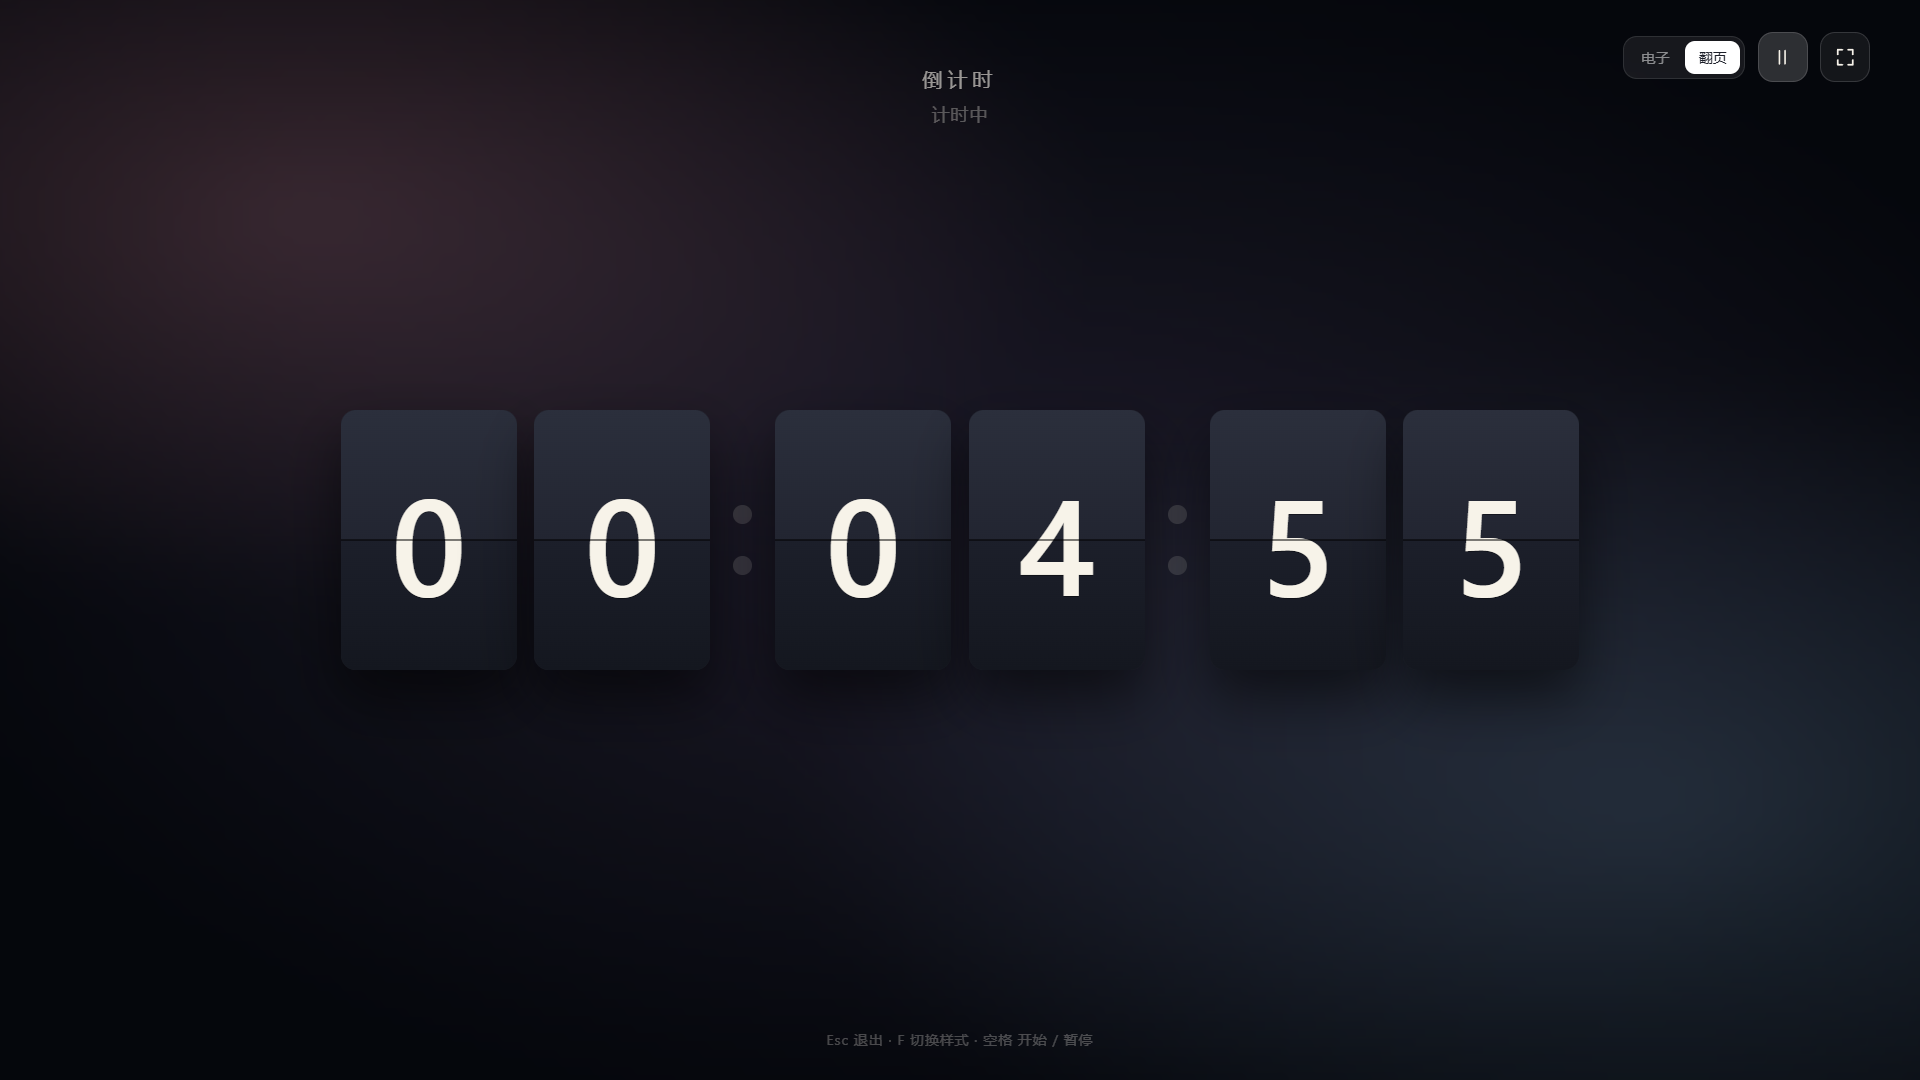
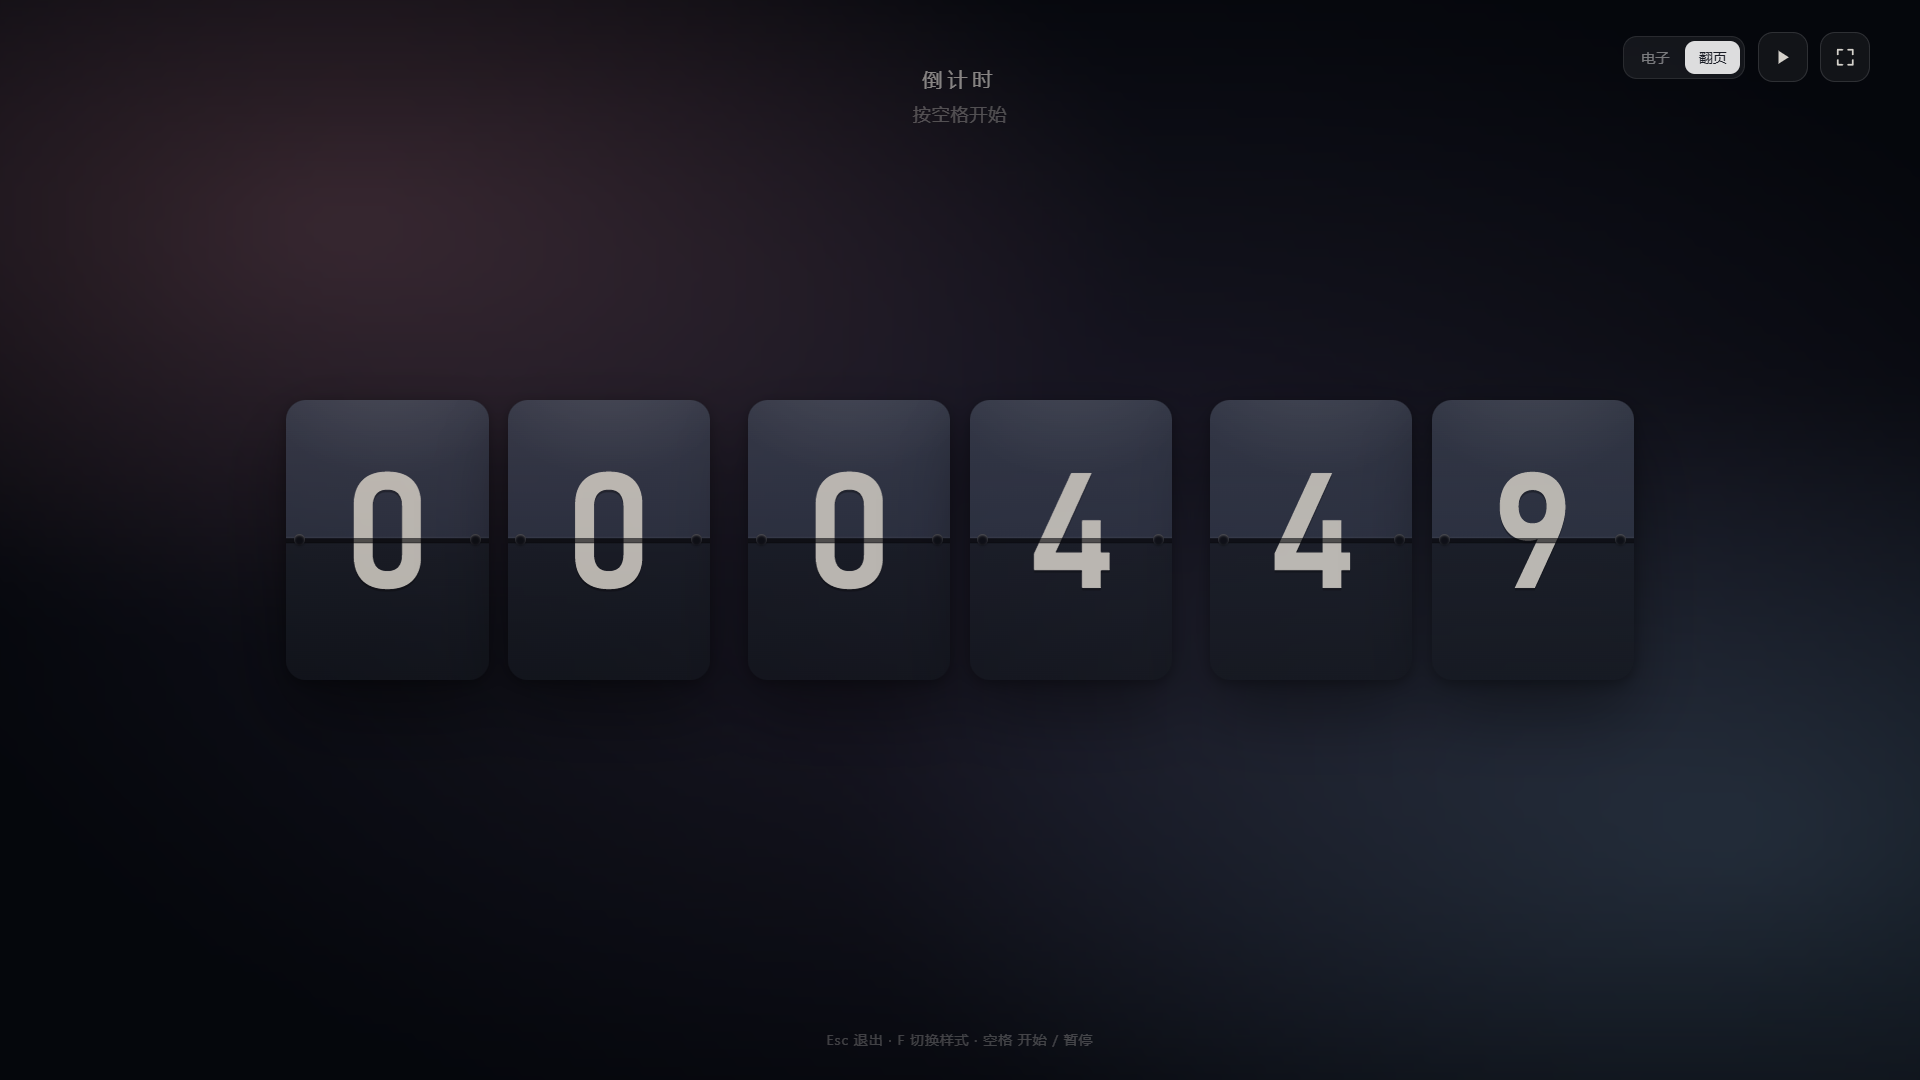
style: 翻页时钟改为日历翻页样式，补充快速开发脚本

Changed region(s): [[0.125, 0.3667, 0.875, 0.55], [0.875, 0.0306, 0.9688, 0.0917], [0.4688, 0.0917, 0.5312, 0.1222]]

diff --git a/src/styles.css b/src/styles.css
@@ -1079,133 +1079,165 @@ body.fs {
   box-shadow: none;
 }
 
-/* ---------- 翻页时钟 ---------- */
+/* ---------- 翻页时钟（日历牌） ---------- */
 .clock-flip {
   display: flex;
   align-items: center;
-  gap: clamp(6px, 0.9vw, 16px);
+  gap: clamp(8px, 1vw, 18px);
+  perspective: 1600px;
 }
 
 .flip-card {
   position: relative;
-  height: clamp(110px, 24vh, 270px);
-  aspect-ratio: 0.68;
-  perspective: 900px;
-  border-radius: 12px;
-  background: #10131b;
-  box-shadow:
-    0 22px 45px rgba(0, 0, 0, 0.55),
-    inset 0 0 0 1px rgba(255, 255, 255, 0.05);
-  font-size: clamp(58px, 12.5vh, 150px);
-  font-family: "Segoe UI Variable Display", "Segoe UI", "Bahnschrift", sans-serif;
+  perspective: 2200px;
+  height: clamp(120px, 26vh, 285px);
+  aspect-ratio: 0.72;
+  border-radius: 16px;
+  background: #0c0e14;
+  font-size: clamp(64px, 15vh, 170px);
+  font-family: "Bahnschrift", "Segoe UI Variable Display", "Segoe UI", sans-serif;
   font-weight: 600;
+  color: #f7f2e6;
+  transform-style: preserve-3d;
+  box-shadow:
+    0 28px 55px rgba(0, 0, 0, 0.55),
+    0 3px 10px rgba(0, 0, 0, 0.45),
+    inset 0 1px 0 rgba(255, 255, 255, 0.06);
 }
 
-.fc-half,
-.fc-flip {
+.fc-layer {
   position: absolute;
-  left: 0;
-  right: 0;
-  height: 50%;
-  overflow: hidden;
-  backface-visibility: hidden;
-}
-
-.fc-top,
-.fc-flip-top {
-  top: 0;
-  border-radius: 12px 12px 0 0;
-  background: linear-gradient(#2b2f3c, #222531);
-}
-
-.fc-bottom,
-.fc-flip-bottom {
-  bottom: 0;
-  border-radius: 0 0 12px 12px;
-  background: linear-gradient(#1c1f2a, #14171f);
-}
-
-.fc-glyph {
-  position: absolute;
-  left: 0;
-  width: 100%;
-  height: 200%;
+  inset: 0;
   display: flex;
   align-items: center;
   justify-content: center;
-  color: #f7f3e9;
+  overflow: hidden;
   line-height: 1;
   font-variant-numeric: tabular-nums;
-  text-shadow: 0 1px 0 rgba(0, 0, 0, 0.4);
+  backface-visibility: hidden;
+  text-shadow: 0 2px 0 rgba(0, 0, 0, 0.35);
 }
 
-.fc-top .fc-glyph,
-.fc-flip-top .fc-glyph {
-  top: 0;
-  transform: translateY(-2.5%);
+.fc-static-top {
+  clip-path: inset(0 0 50% 0);
+  border-radius: 16px 16px 3px 3px;
+  background: linear-gradient(180deg, #3d4353 0%, #313748 58%, #2a2f3d 100%);
 }
 
-.fc-bottom .fc-glyph,
-.fc-flip-bottom .fc-glyph {
-  bottom: 0;
+.fc-static-top::after {
+  content: "";
+  position: absolute;
+  inset: 0;
+  background: radial-gradient(120% 85% at 50% -25%, rgba(255, 255, 255, 0.16), transparent 62%);
+  pointer-events: none;
 }
 
-.fc-flip-top,
-.fc-flip-bottom {
+.fc-static-bottom {
+  clip-path: inset(50% 0 0 0);
+  border-radius: 3px 3px 16px 16px;
+  background: linear-gradient(180deg, #232833 0%, #1a1e27 55%, #13161d 100%);
+}
+
+.fc-flap {
+  opacity: 0;
+}
+
+.fc-flap-top {
+  z-index: 4;
+  clip-path: inset(0 0 50% 0);
+  border-radius: 16px 16px 3px 3px;
+  transform-origin: 50% 50%;
+  background: linear-gradient(180deg, #4b5268 0%, #343a4b 100%);
+  box-shadow: 0 14px 26px rgba(0, 0, 0, 0.45);
+}
+
+.fc-flap-bottom {
   z-index: 3;
-}
-
-.fc-flip-bottom {
-  z-index: 2;
+  clip-path: inset(50% 0 0 0);
+  border-radius: 3px 3px 16px 16px;
+  transform-origin: 50% 50%;
   transform: rotateX(90deg);
+  background: linear-gradient(180deg, #262b37 0%, #171a22 100%);
 }
 
-.flip-card::after {
+/* 中缝 */
+.flip-card::before {
   content: "";
   position: absolute;
   left: 0;
   right: 0;
-  top: calc(50% - 1px);
-  height: 2px;
-  background: rgba(0, 0, 0, 0.5);
+  top: calc(50% - 1.5px);
+  height: 3px;
   z-index: 6;
+  background: rgba(0, 0, 0, 0.6);
+  box-shadow:
+    0 -1px 0 rgba(255, 255, 255, 0.06),
+    0 1px 0 rgba(0, 0, 0, 0.7);
+}
+
+/* 两侧铰链 */
+.fc-hinge {
+  position: absolute;
+  inset: 0;
+  z-index: 7;
   pointer-events: none;
 }
 
-.flip-card.flipping .fc-flip-top {
-  animation: fc-flip-top 0.5s cubic-bezier(0.4, 0, 0.2, 1) forwards;
+.fc-hinge::before,
+.fc-hinge::after {
+  content: "";
+  position: absolute;
+  top: calc(50% - 5px);
+  width: 9px;
+  height: 9px;
+  border-radius: 50%;
+  background: #0a0c11;
+  box-shadow:
+    inset 0 1px 2px rgba(255, 255, 255, 0.4),
+    0 1px 2px rgba(0, 0, 0, 0.5);
 }
 
-.flip-card.flipping .fc-flip-bottom {
-  animation: fc-flip-bottom 0.5s cubic-bezier(0.4, 0, 0.2, 1) forwards;
+.fc-hinge::before {
+  left: 6px;
+}
+
+.fc-hinge::after {
+  right: 6px;
+}
+
+.flip-card.flipping .fc-flap-top {
+  opacity: 1;
+  animation: fc-flip-top 0.58s cubic-bezier(0.36, 0.07, 0.19, 0.97) forwards;
+}
+
+.flip-card.flipping .fc-flap-bottom {
+  opacity: 1;
+  animation: fc-flip-bottom 0.58s cubic-bezier(0.36, 0.07, 0.19, 0.97) 0.02s forwards;
 }
 
 @keyframes fc-flip-top {
-  0% { transform: rotateX(0deg); }
-  100% { transform: rotateX(-90deg); }
+  0% {
+    transform: rotateX(0deg);
+    filter: brightness(1);
+  }
+  55% {
+    filter: brightness(0.78);
+  }
+  100% {
+    transform: rotateX(-90deg);
+    filter: brightness(0.62);
+  }
 }
 
 @keyframes fc-flip-bottom {
-  0% { transform: rotateX(90deg); }
-  100% { transform: rotateX(0deg); }
-}
-
-.flip-colon {
-  display: flex;
-  flex-direction: column;
-  gap: clamp(14px, 3vh, 32px);
-  padding: 0 clamp(2px, 0.3vw, 6px);
-}
-
-.flip-colon i {
-  width: clamp(9px, 1vw, 15px);
-  height: clamp(9px, 1vw, 15px);
-  border-radius: 50%;
-  background: rgba(247, 243, 233, 0.75);
-}
-
-.flip-colon.dim i {
-  opacity: 0.18;
+  0% {
+    transform: rotateX(90deg);
+    filter: brightness(0.6);
+  }
+  100% {
+    transform: rotateX(0deg);
+    filter: brightness(1);
+  }
 }
 
 /* ---------- 全屏控件 ---------- */
@@ -1309,23 +1341,4 @@ body.fs {
   background: #fff;
   color: var(--ink);
   box-shadow: 0 2px 6px rgba(140, 120, 170, 0.18);
-}
-/* 修正翻页牌上下半片的对齐，并隐藏静止时的翻片图层 */
-.fc-glyph {
-  top: 0;
-  transform: translateY(-2.5%);
-}
-
-.fc-bottom .fc-glyph,
-.fc-flip-bottom .fc-glyph {
-  top: -100%;
-  bottom: auto;
-}
-
-.fc-flip {
-  opacity: 0;
-}
-
-.flip-card.flipping .fc-flip {
-  opacity: 1;
 }

diff --git a/src/main.js b/src/main.js
@@ -613,10 +613,11 @@ function buildFullscreenClock() {
     card.className = "flip-card";
     card.dataset.val = "0";
     card.innerHTML =
-      '<div class="fc-half fc-top"><div class="fc-glyph">0</div></div>' +
-      '<div class="fc-half fc-bottom"><div class="fc-glyph">0</div></div>' +
-      '<div class="fc-half fc-flip fc-flip-top"><div class="fc-glyph">0</div></div>' +
-      '<div class="fc-half fc-flip fc-flip-bottom"><div class="fc-glyph">0</div></div>';
+      '<div class="fc-layer fc-static-top"><span>0</span></div>' +
+      '<div class="fc-layer fc-static-bottom"><span>0</span></div>' +
+      '<div class="fc-layer fc-flap fc-flap-top"><span>0</span></div>' +
+      '<div class="fc-layer fc-flap fc-flap-bottom"><span>0</span></div>' +
+      '<div class="fc-hinge"></div>';
     flip.appendChild(card);
     if (i === 1 || i === 3) flip.appendChild(makeColon("flip-colon"));
   }
@@ -657,18 +658,18 @@ function setFlipDigit(card, value) {
   if (card.dataset.val === value) return;
   const old = card.dataset.val;
   card.dataset.val = value;
-  card.querySelector(".fc-top .fc-glyph").textContent = value;
-  card.querySelector(".fc-bottom .fc-glyph").textContent = old;
-  card.querySelector(".fc-flip-top .fc-glyph").textContent = old;
-  card.querySelector(".fc-flip-bottom .fc-glyph").textContent = value;
+  card.querySelector(".fc-static-top span").textContent = value;
+  card.querySelector(".fc-static-bottom span").textContent = old;
+  card.querySelector(".fc-flap-top span").textContent = old;
+  card.querySelector(".fc-flap-bottom span").textContent = value;
   card.classList.remove("flipping");
   void card.offsetWidth;
   card.classList.add("flipping");
   clearTimeout(card._flipTimer);
   card._flipTimer = setTimeout(() => {
-    card.querySelector(".fc-bottom .fc-glyph").textContent = value;
+    card.querySelector(".fc-static-bottom span").textContent = value;
     card.classList.remove("flipping");
-  }, 520);
+  }, 610);
 }
 
 function renderFlip(text) {

diff --git a/src/api.js b/src/api.js
@@ -119,7 +119,7 @@ if (previewVariant === "stopwatch") {
     label: "深度工作",
     target_ms: 1500000,
     elapsed_ms: 372000,
-    running: false,
+    running: true,
   });
 }
 if (mock.timer.running) startMockLoop();

diff --git a/README.md b/README.md
@@ -77,6 +77,8 @@ cargo build --release --manifest-path src-tauri/Cargo.toml
 
 也可以直接用 `scripts\build.ps1` / `scripts\run.ps1`（会自动把 Rust 目录加进 PATH）。
 
+开发调试用 `scripts\dev.ps1`：Vite HMR + Tauri debug 窗口，改前端不用重新编译 Rust。
+
 > 没有安装 `@tauri-apps/cli` 也能构建：Tauri 在编译期通过 `frontendDist` 把 `dist/` 嵌进 exe。
 > 需要生成 NSIS 安装包时再执行 `cargo install tauri-cli` 然后 `cargo tauri build`。
 

diff --git a/CHANGELOG.md b/CHANGELOG.md
@@ -4,6 +4,11 @@
 
 ## [Unreleased]
 
+### 调整
+
+- 翻页时钟改为日历牌样式：两侧铰链、中缝、上下翻片与投影，翻页动画更接近实体翻页
+- 新增 `scripts/dev.ps1`：Vite HMR + Tauri debug 窗口，前端改动免 Rust 重编译
+
 ## [0.2.0] - 2026-11-23
 
 ### 新增
